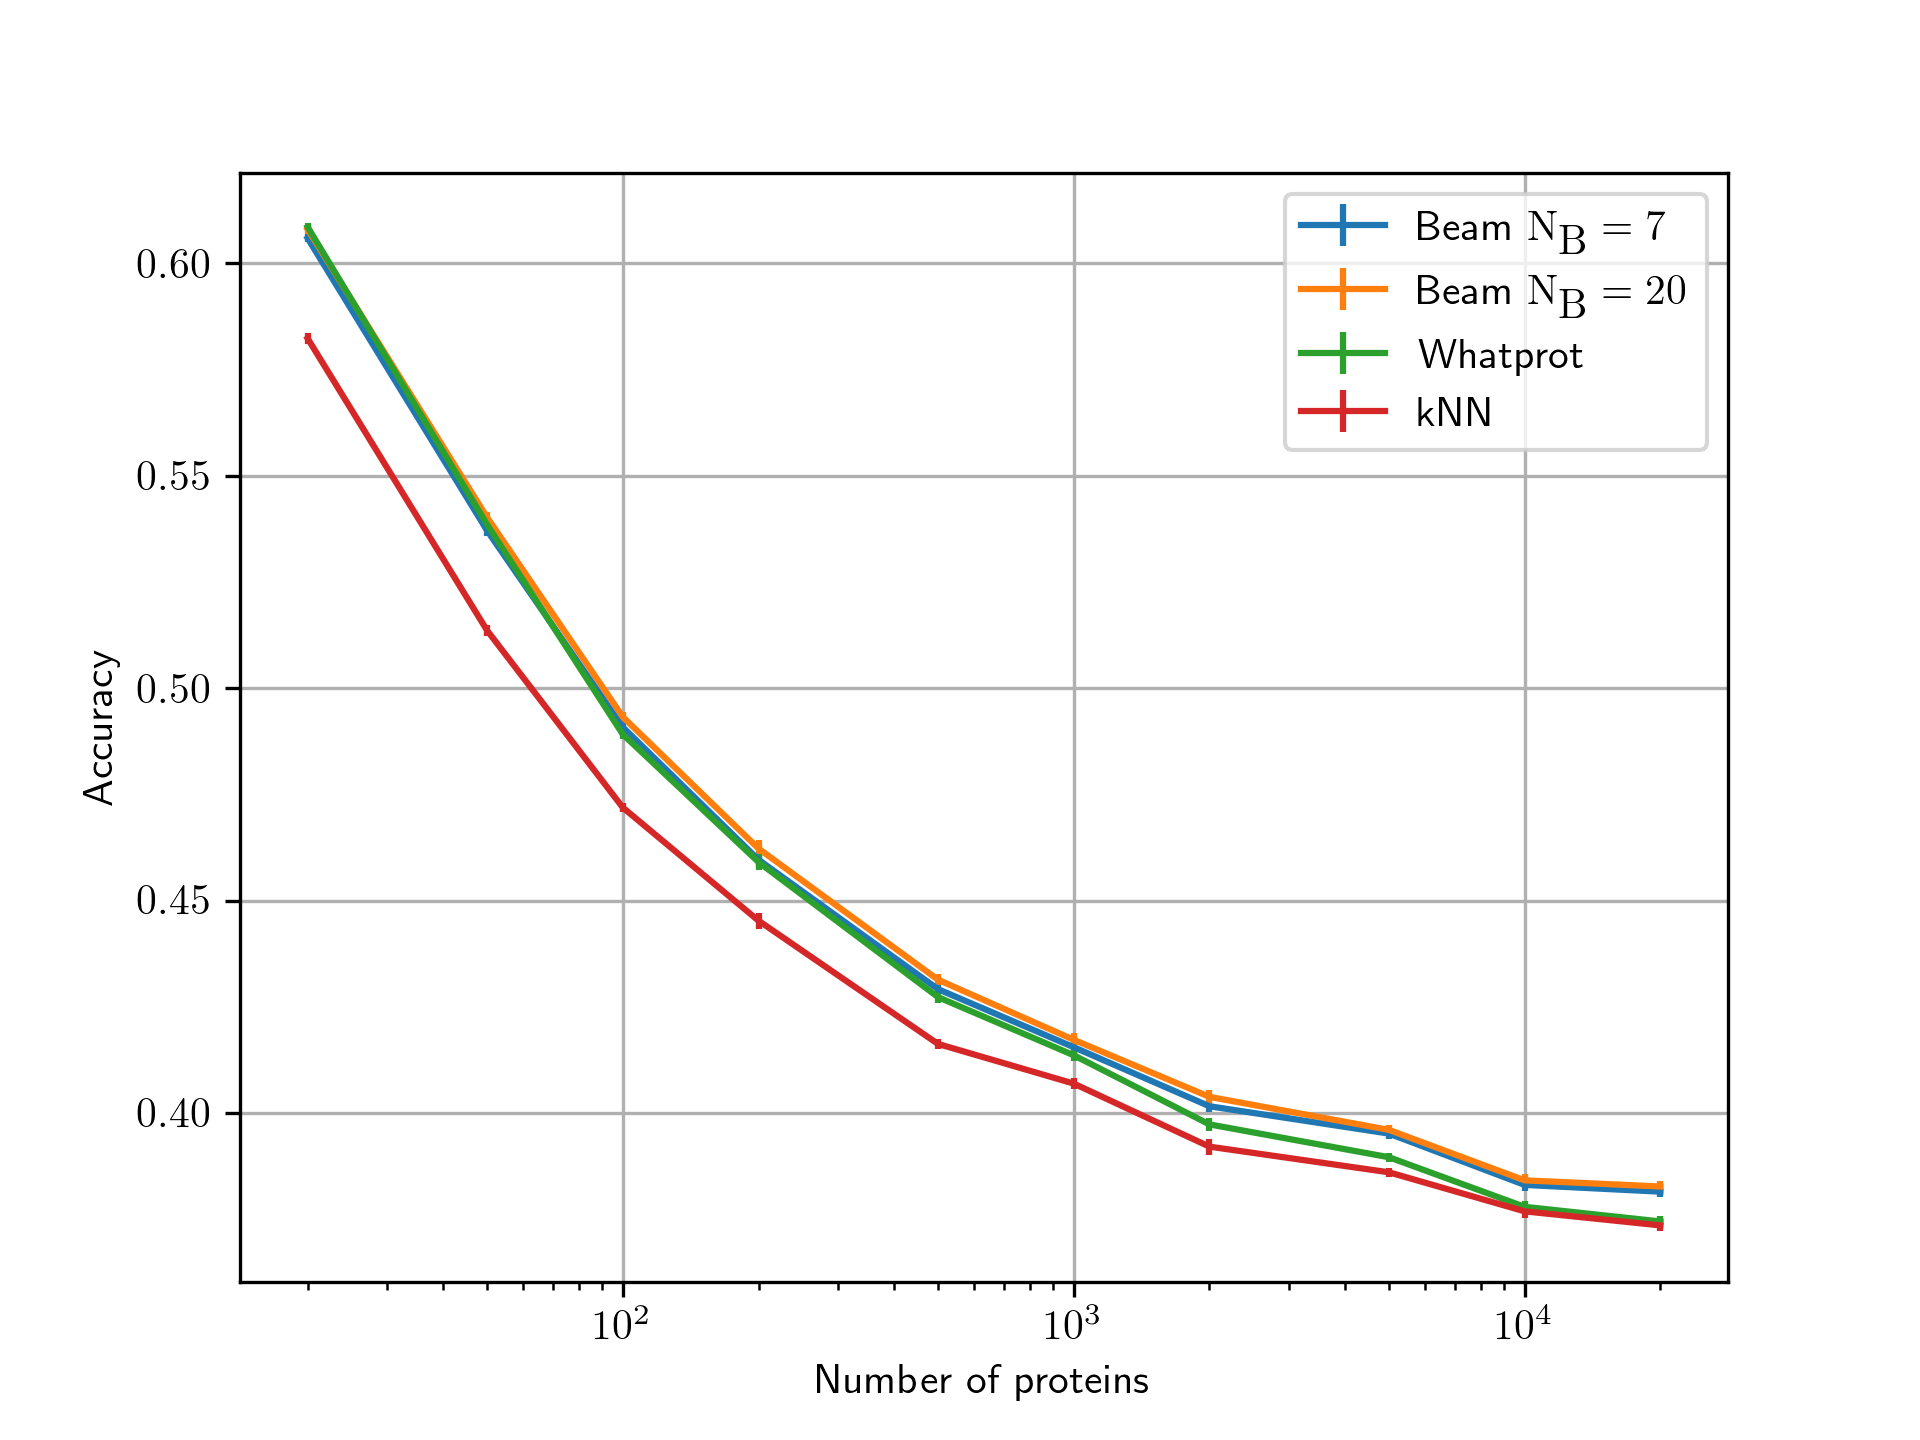
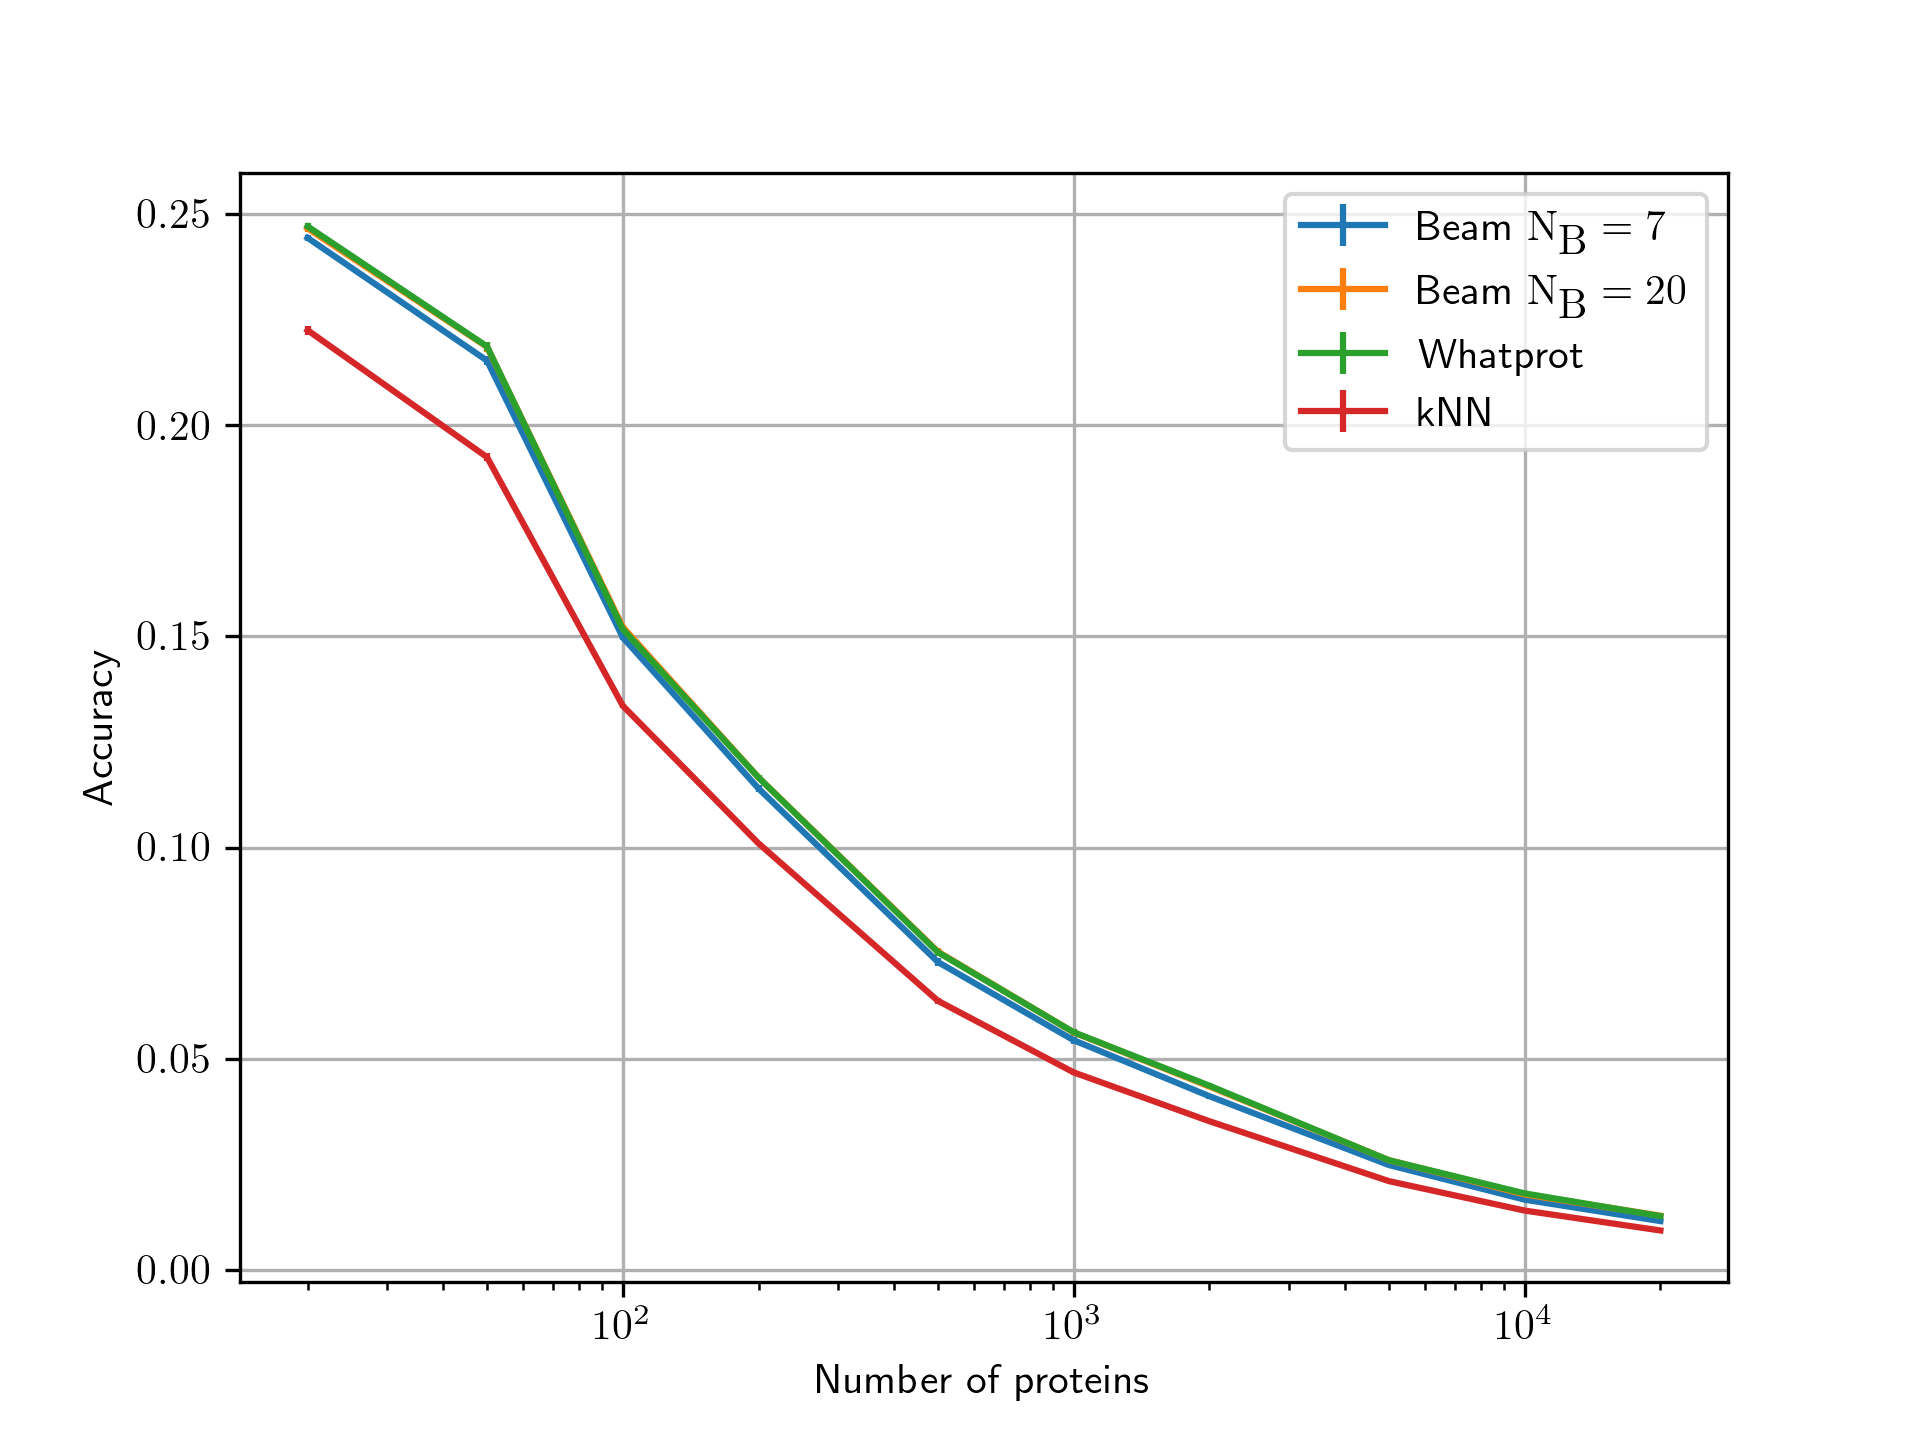
Accuracy ok now for plots

diff --git a/scripts/GenPlots.py b/scripts/GenPlots.py
@@ -18,12 +18,18 @@ datasets_path="data/NormDatasets/"
 
 n_proteins=[20,50,100,200,500,1000,2000,5000,10000,20000];
 
-def get_crossval_acc(true_ids, y_pred,n_folds=10):
+def get_crossval_acc(true_ids, y_pred,dye_seqs_map,n_folds=10):
     folds_ids=np.array_split(true_ids, n_folds)
     folds_y_pred=np.array_split(y_pred, n_folds)
     accs=[]
     for i in range(n_folds):
-        accs.append(metrics.accuracy_score(folds_ids[i], folds_y_pred[i]))
+        total_acc = 0
+        for j in range(len(folds_ids[i])):
+            if folds_ids[i][j] == folds_y_pred[i][j]:
+                total_acc = total_acc + (1/dye_seqs_map[folds_ids[i][j]])
+        total_acc = total_acc/len(folds_ids[i]);
+        accs.append(total_acc)
+        #accs.append(metrics.accuracy_score(folds_ids[i], folds_y_pred[i]))
     return np.mean(accs),np.std(accs)/np.sqrt(n_folds)
 
 ###Figure 1 ####
@@ -55,10 +61,14 @@ for n_prot in n_proteins:
     predictions_beam_2 = pd.read_csv(curr_ds+"BeamSearchPred"+str(nb2)+".csv")[' best_pep_iz'].to_numpy();
     predictions_hybrid = pd.read_csv(curr_ds+"predictionsHybrid.csv")['best_pep_iz'].to_numpy();
     predictions_knn = pd.read_csv(curr_ds+"predictionskNN.csv")['best_pep_iz'].to_numpy();
-    mean_acc_beam_1, mean_acc_beam_std_1 = get_crossval_acc(true_ids,predictions_beam_1)
-    mean_acc_beam_2, mean_acc_beam_std_2 = get_crossval_acc(true_ids,predictions_beam_2)
-    mean_acc_hybrid, mean_acc_hybrid_std = get_crossval_acc(true_ids,predictions_hybrid)
-    mean_acc_knn, mean_acc_knn_std = get_crossval_acc(true_ids,predictions_knn)
+    
+    dye_seqs=pd.read_csv(curr_ds+"dye-seqs.tsv", sep='\t', skiprows=2,header=None)
+    dye_seqs_map = {dye_seqs.loc[i,2]:dye_seqs.loc[i,1] for i in range(len(dye_seqs))} #Maps pep id to count of peptides same pep id
+
+    mean_acc_beam_1, mean_acc_beam_std_1 = get_crossval_acc(true_ids,predictions_beam_1,dye_seqs_map)
+    mean_acc_beam_2, mean_acc_beam_std_2 = get_crossval_acc(true_ids,predictions_beam_2,dye_seqs_map)
+    mean_acc_hybrid, mean_acc_hybrid_std = get_crossval_acc(true_ids,predictions_hybrid,dye_seqs_map)
+    mean_acc_knn, mean_acc_knn_std = get_crossval_acc(true_ids,predictions_knn,dye_seqs_map)
     mean_accs_beam_1.append(mean_acc_beam_1);mean_accs_beam_std_1.append(mean_acc_beam_std_1)
     mean_accs_beam_2.append(mean_acc_beam_2);mean_accs_beam_std_2.append(mean_acc_beam_std_2)
     mean_accs_hybrid.append(mean_acc_hybrid);mean_accs_hybrid_std.append(mean_acc_hybrid_std)
